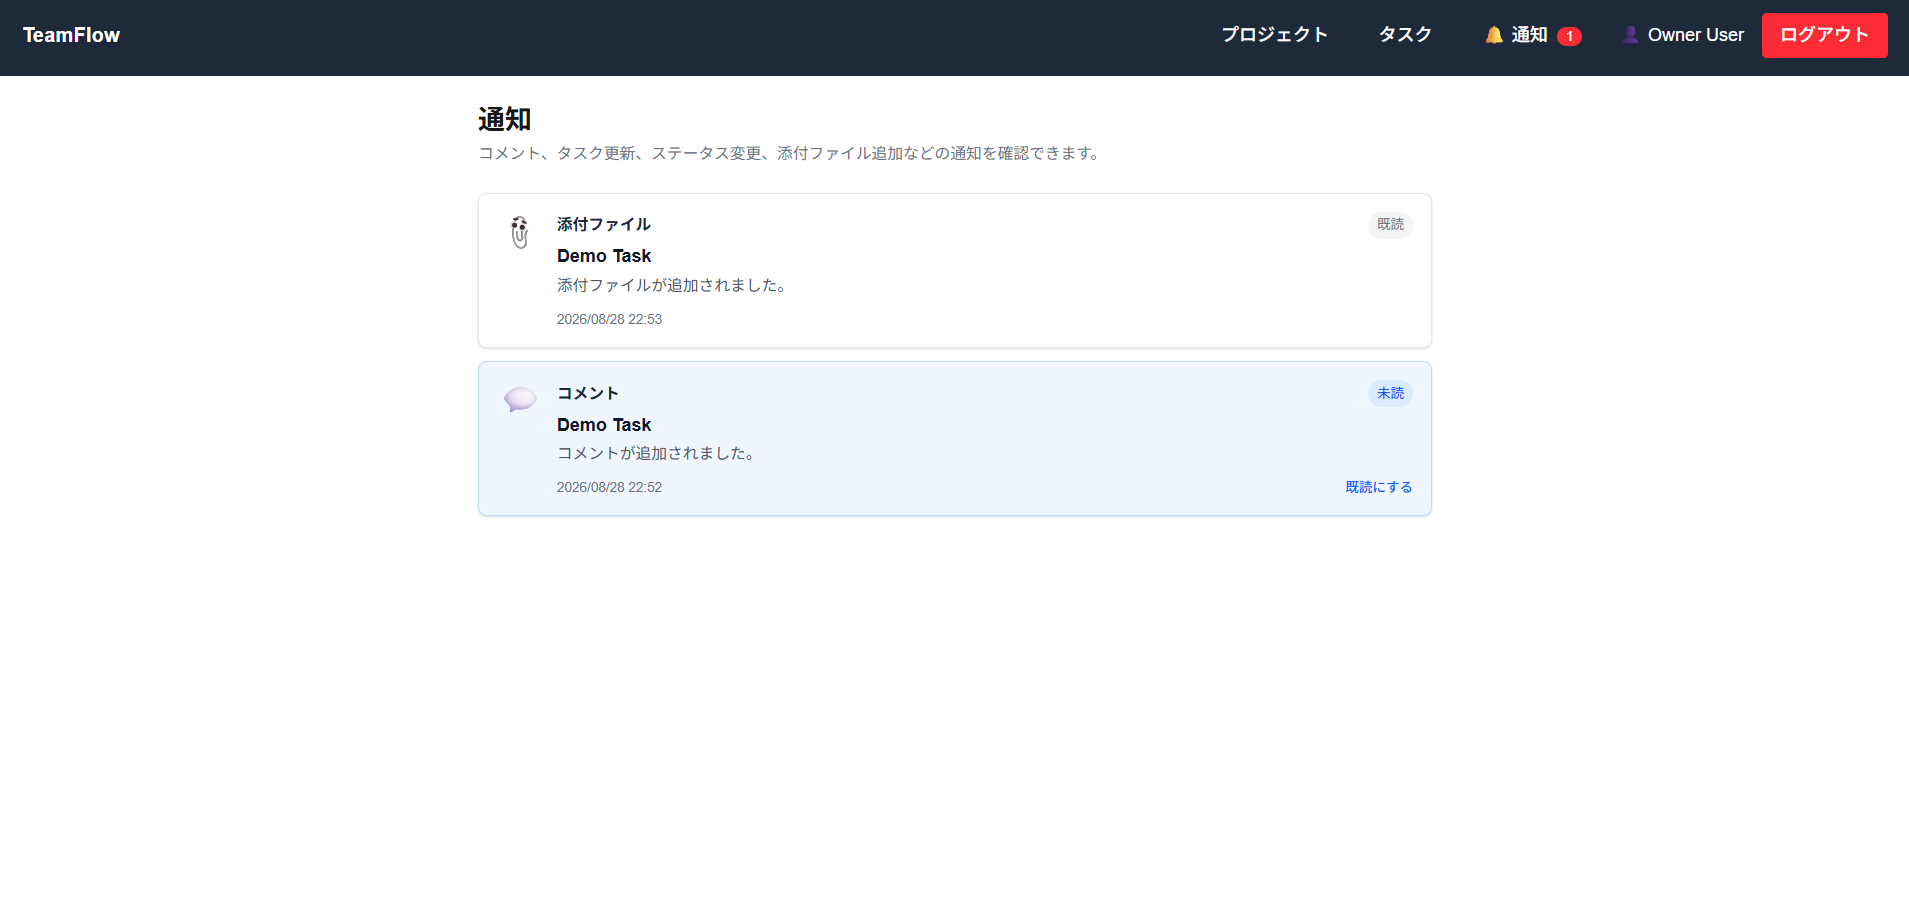
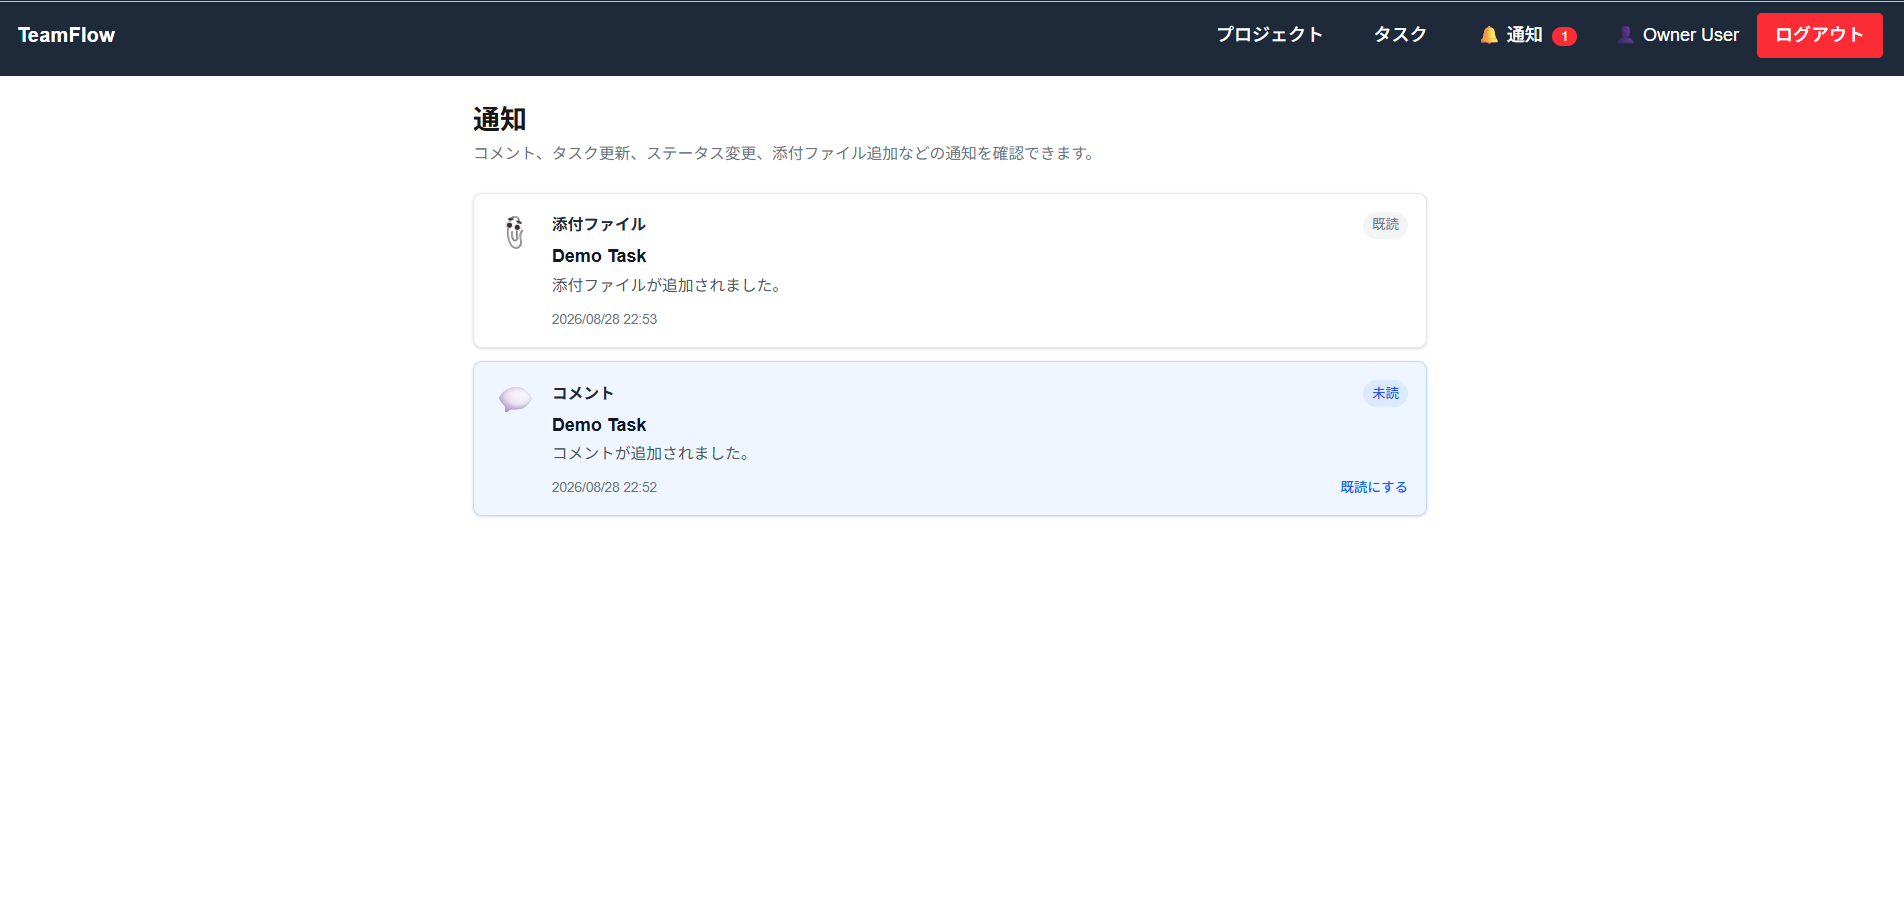
docs: refine README and screenshot styling

diff --git a/README.md b/README.md
@@ -26,7 +26,7 @@ Projectの作成・一覧・詳細・編集・削除に対応しています。
 
 Taskの作成・一覧・詳細・編集・削除、ステータス変更に対応しています。
 
-担当者・期限・完了日時を管理でき、ProjectごとのTask確認にも対応しています。
+担当者・期限を管理でき、ProjectごとのTask確認にも対応しています。
 
 ### コメント・添付ファイル
 
@@ -89,7 +89,7 @@ ProjectやTask、通知などの更新後に必要なデータを再検証し、
 
 BackendのPolicyによる認可とFrontendのUI制御を対応させています。
 
-Backendから返される権限情報をもとに、作成・編集・削除・ステータス変更など、ユーザーが実行可能な操作に応じてUIを表示しています。
+Backendから返される権限情報をもとに、作成・編集・削除など、ユーザーが実行可能な操作に応じてUIを表示しています。
 
 ## 画面
 
